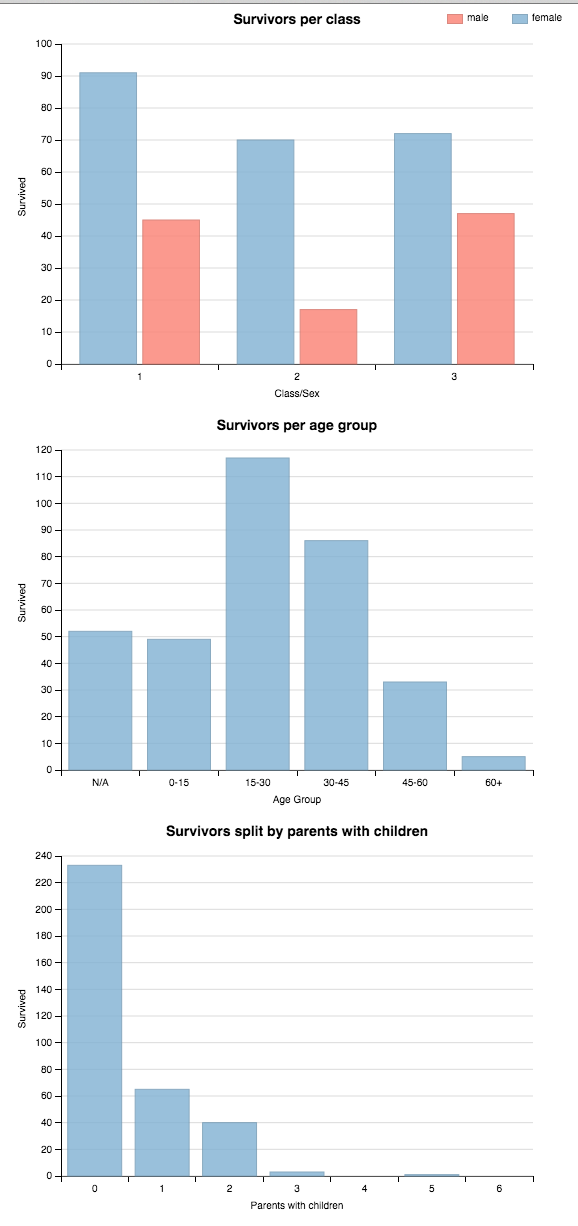
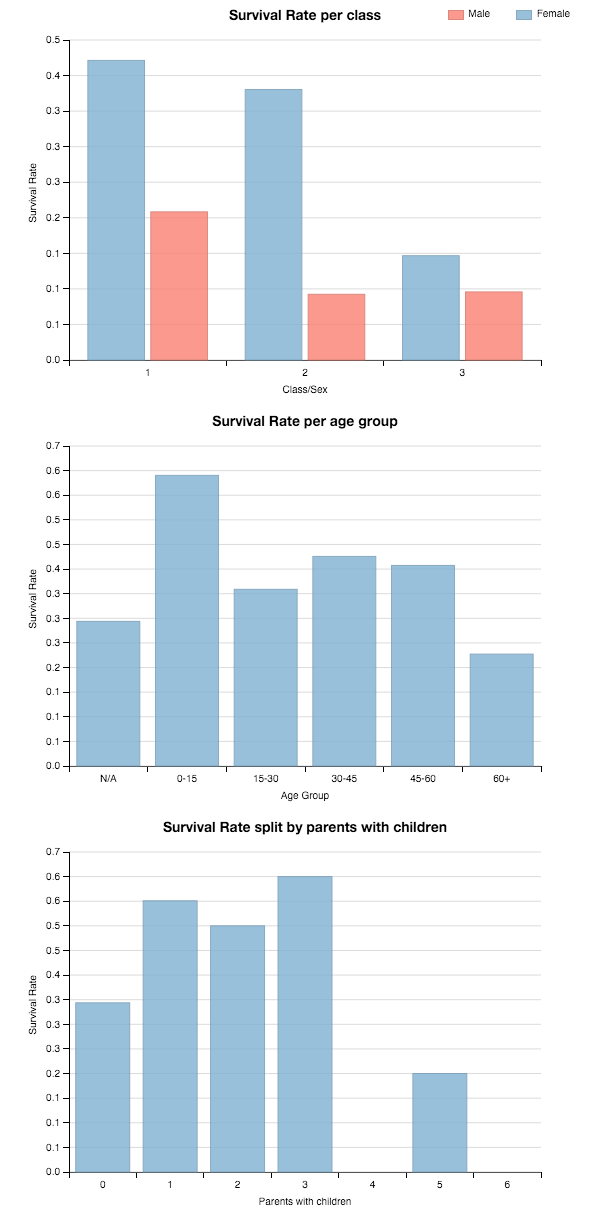
Polish

diff --git a/p6 - Data Visualization/js/main.js b/p6 - Data Visualization/js/main.js
@@ -2,17 +2,17 @@
     var width = 590,
         height = 400;
     var svg1 = dimple.newSvg("#chart1", width, height);
-    d3.csv("data/train.csv", function(data){
+    d3.csv("data/survival_class.csv", function(data){
       var chart = new dimple.chart(svg1, data);
         chart.addCategoryAxis("x", ["Class","Sex"]);
-        chart.addMeasureAxis("y", "Survived");
+        chart.addMeasureAxis("y", "Survival Rate");
         chart.addSeries("Sex", dimple.plot.bar);
         svg1.append("text")
          .attr("x", chart._xPixels() + chart._widthPixels() / 2)
          .attr("y", chart._yPixels() - 20)
          .style("text-anchor", "middle")
          .style("font-weight", "bold")
-         .text("Survivors per class ");
+         .text("Survival Rate per class ");
       chart.addLegend(65, 10, 510, 20, "right");
       chart.draw();
     });
@@ -21,18 +21,18 @@
     var width = 590,
         height = 400;
     var svg2 = dimple.newSvg("#chart2", width, height);
-    d3.csv("data/train.csv", function(data){
+    d3.csv("data/survival_age_group.csv", function(data){
       var chart = new dimple.chart(svg2, data);
         x = chart.addCategoryAxis("x", "Age Group");
         x.addOrderRule(["N/A", "0-15", "15-30", "30-45", "45-60", "60+"]);
-        chart.addMeasureAxis("y", "Survived");
+        chart.addMeasureAxis("y", "Survival Rate");
         chart.addSeries(null,dimple.plot.bar);
         svg2.append("text")
          .attr("x", chart._xPixels() + chart._widthPixels() / 2)
          .attr("y", chart._yPixels() - 20)
          .style("text-anchor", "middle")
          .style("font-weight", "bold")
-         .text("Survivors per age group");
+         .text("Survival Rate per age group");
       chart.draw();
     }); 
 
@@ -40,17 +40,17 @@
     var width = 590,
         height = 400;
     var svg3 = dimple.newSvg("#chart3", width, height);
-    d3.csv("data/train.csv", function(data){
+    d3.csv("data/survival_parc.csv", function(data){
       var chart = new dimple.chart(svg3, data);
         x = chart.addCategoryAxis("x", "Parch");
-        chart.addMeasureAxis("y", "Survived");
+        chart.addMeasureAxis("y", "Survival Rate");
         chart.addSeries(null, dimple.plot.bar);
         svg3.append("text")
          .attr("x", chart._xPixels() + chart._widthPixels() / 2)
          .attr("y", chart._yPixels() - 20)
          .style("text-anchor", "middle")
          .style("font-weight", "bold")
-         .text("Survivors split by parents with children");
+         .text("Survival Rate split by parents with children");
       chart.draw();
       x.titleShape.text("Parents with children");
     });    
